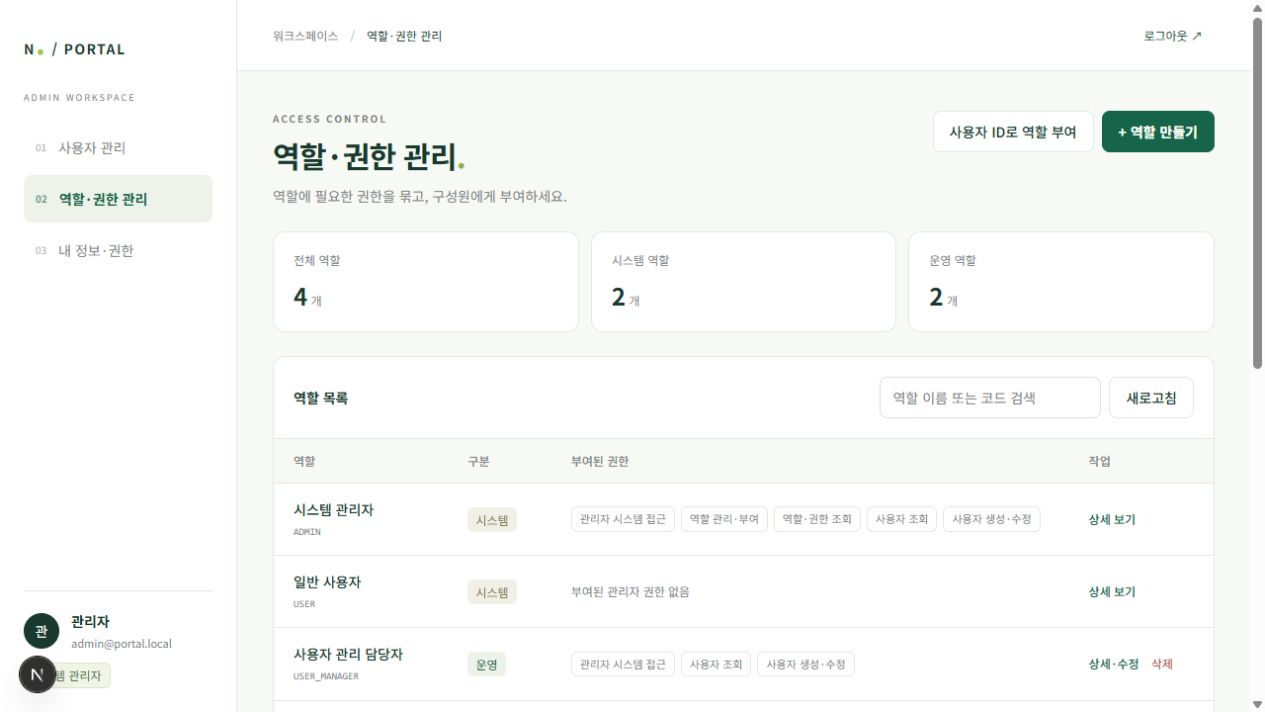
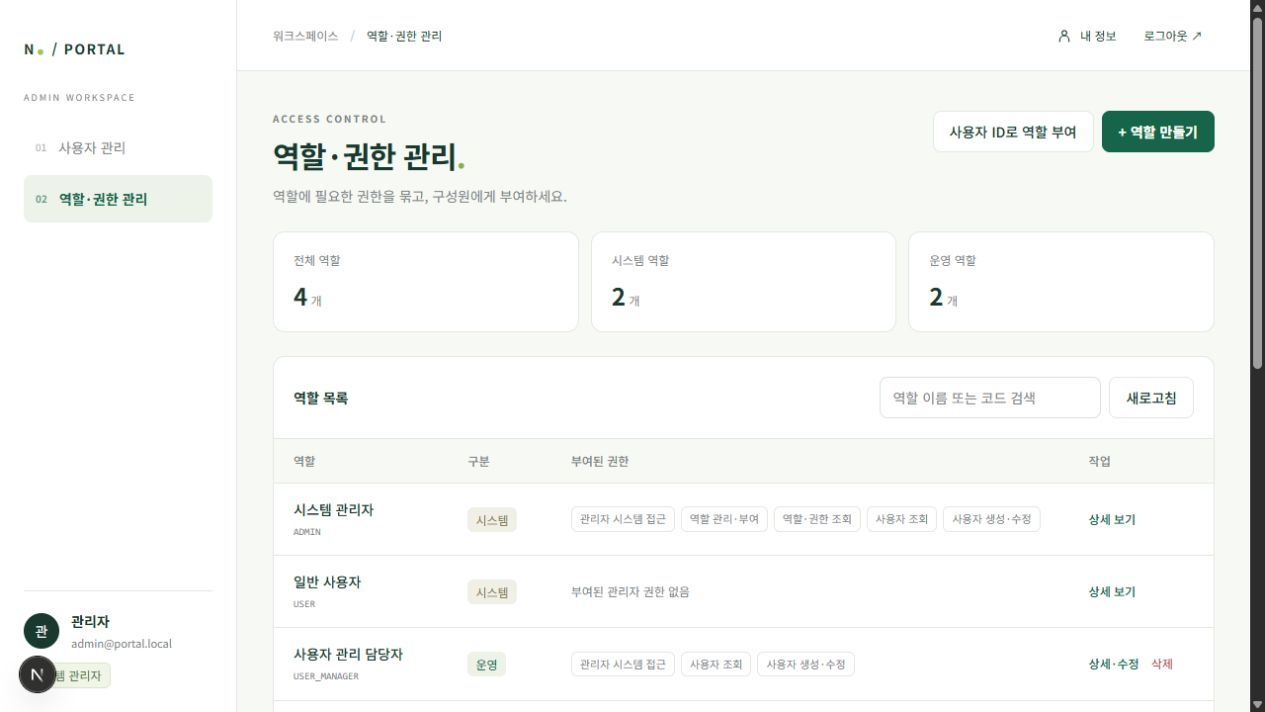
feat: move profile navigation to header

Changed region(s): [[0.9866, 0.0, 1.0, 1.0], [0.0308, 0.3399, 0.1233, 0.3708], [0.8324, 0.0309, 0.8941, 0.0618]]

diff --git a/apps/admin/src/components/admin-workspace.tsx b/apps/admin/src/components/admin-workspace.tsx
@@ -68,12 +68,11 @@ function Workspace({ me, onMeChange, onLogout, busy, error }: { me: Member; onMe
   const roleAccess = can(me, 'role:read') || can(me, 'role:manage');
   const [screen, setScreen] = useState<Screen>(() => memberAccess ? 'members' : roleAccess ? 'roles' : 'account');
   const roles = useResource<PortalRole[]>(can(me, 'role:read') ? '/roles' : null);
-  const navigation: { id: Screen; label: string; number: string; enabled: boolean }[] = [
+  const navigation: { id: Exclude<Screen, 'account'>; label: string; number: string; enabled: boolean }[] = [
     { id: 'members', label: '사용자 관리', number: '01', enabled: memberAccess },
     { id: 'roles', label: '역할·권한 관리', number: '02', enabled: roleAccess },
-    { id: 'account', label: '내 정보·권한', number: '03', enabled: true },
   ];
-  const title = navigation.find(item => item.id === screen)?.label;
+  const title = screen === 'account' ? '내 정보' : navigation.find(item => item.id === screen)?.label;
   const menu = navigation.filter(item => item.enabled).map(item => <button type="button" key={item.id} aria-current={screen === item.id ? 'page' : undefined} onClick={() => setScreen(item.id)}
     className={`flex cursor-pointer items-center gap-3 rounded-lg px-3 py-3.5 text-left text-sm transition-colors ${screen === item.id ? 'bg-[#edf3e9] font-semibold text-portal-green' : 'text-muted hover:bg-paper hover:text-ink'}`}><span className="text-[10px] opacity-65">{item.number}</span>{item.label}</button>);
   return <div className="min-h-screen">
@@ -83,8 +82,15 @@ function Workspace({ me, onMeChange, onLogout, busy, error }: { me: Member; onMe
       <p className="mt-8 text-[9px] tracking-[2px] text-muted">ADMIN WORKSPACE</p><nav aria-label="관리자 메뉴" className="mt-5 grid gap-1">{menu}</nav>
       <div className="mt-auto border-t border-line pt-5"><div className="mb-3 flex items-center gap-3"><span className="grid size-9 shrink-0 place-items-center rounded-full bg-ink text-sm text-white">{me.name.slice(0, 1)}</span><div className="min-w-0"><p className="truncate text-sm font-semibold">{me.name}</p><p className="mt-1 truncate text-[11px] text-muted">{me.email}</p></div></div><RoleBadges codes={me.roles} roles={roles.data} /></div>
     </aside>
-    <div className="lg:ml-60"><header className="flex h-18 items-center justify-between gap-4 border-b border-line bg-white px-5 md:px-9"><p className="text-xs"><span className="text-muted">워크스페이스</span><span className="mx-3 text-[#bcc6bd]">/</span>{title}</p><button type="button" className="cursor-pointer whitespace-nowrap rounded-lg px-3 py-2 text-xs hover:bg-paper disabled:opacity-40" disabled={busy} onClick={onLogout}>{busy ? '로그아웃 중…' : '로그아웃 ↗'}</button></header>
-      <nav aria-label="모바일 관리자 메뉴" className="flex gap-1 overflow-x-auto border-b border-line bg-white px-3 lg:hidden">{menu}</nav>
+    <div className="lg:ml-60"><header className="flex min-h-18 items-center justify-between gap-3 border-b border-line bg-white px-5 py-3 md:px-9"><p className="min-w-0 text-xs"><span className="hidden text-muted sm:inline">워크스페이스</span><span className="mx-3 hidden text-[#bcc6bd] sm:inline">/</span>{title}</p><div className="flex shrink-0 items-center gap-1">
+        <button type="button" aria-current={screen === 'account' ? 'page' : undefined} disabled={busy} onClick={() => setScreen('account')}
+          className={`inline-flex cursor-pointer items-center gap-2 whitespace-nowrap rounded-lg px-3 py-2 text-xs transition-colors focus-visible:outline-2 focus-visible:outline-offset-2 focus-visible:outline-portal-green disabled:opacity-40 ${screen === 'account' ? 'bg-[#edf3e9] font-semibold text-portal-green' : 'hover:bg-paper'}`}>
+          <svg aria-hidden="true" viewBox="0 0 24 24" fill="none" stroke="currentColor" strokeWidth="1.7" strokeLinecap="round" strokeLinejoin="round" className="size-4 shrink-0"><circle cx="12" cy="8" r="3.5" /><path d="M5 21v-2a7 7 0 0 1 14 0v2" /></svg>
+          내 정보
+        </button>
+        <button type="button" className="cursor-pointer whitespace-nowrap rounded-lg px-3 py-2 text-xs hover:bg-paper disabled:opacity-40" disabled={busy} onClick={onLogout}>{busy ? '로그아웃 중…' : '로그아웃 ↗'}</button>
+      </div></header>
+      {menu.length > 0 && <nav aria-label="모바일 관리자 메뉴" className="flex gap-1 overflow-x-auto border-b border-line bg-white px-3 lg:hidden">{menu}</nav>}
       <main id="admin-content" className="mx-auto max-w-[1440px] space-y-6 px-5 py-8 md:px-9 md:py-10"><Feedback message={error} />
         {screen === 'members' && memberAccess && <MembersPanel me={me} roles={roles.data} rolesError={roles.error} onMeChange={onMeChange} />}
         {screen === 'roles' && roleAccess && <RolesPanel me={me} roles={roles.data} loading={roles.loading} error={roles.error} onReload={roles.reload} />}

diff --git a/README.md b/README.md
@@ -39,8 +39,9 @@ tests/          관리자 인증 클라이언트 테스트
   다중 역할 부여. 새 `roles` 배열을 사용하며 기존 단일 `role` 필드는 보내지 않습니다.
 - **역할·권한 관리**: 역할 목록·검색·상세, 역할 생성·이름 및 권한 교체·삭제,
   권한 카탈로그, 사용자 ID로 역할 부여.
-- **내 정보·권한**: 실제 부여된 역할과 합산된 권한 확인. `admin:access`만 있는 계정도
-  이 화면을 사용할 수 있습니다.
+- **상단 내 정보 아이콘**: 로그아웃 옆의 사람 아이콘과 ‘내 정보’ 버튼으로 실제 부여된
+  역할과 합산된 권한을 확인합니다. 사이드바에는 사용자 관리와 역할·권한 관리만 표시하며,
+  `admin:access`만 있는 계정도 내 정보 화면을 사용할 수 있습니다.
 
 메뉴·작업 버튼과 목록 요청은 `/api/admin/auth/me`의 `permissions`로 결정합니다.
 `user:read` 없는 계정은 사용자 목록을, `role:read` 없는 계정은 역할·권한 목록을
